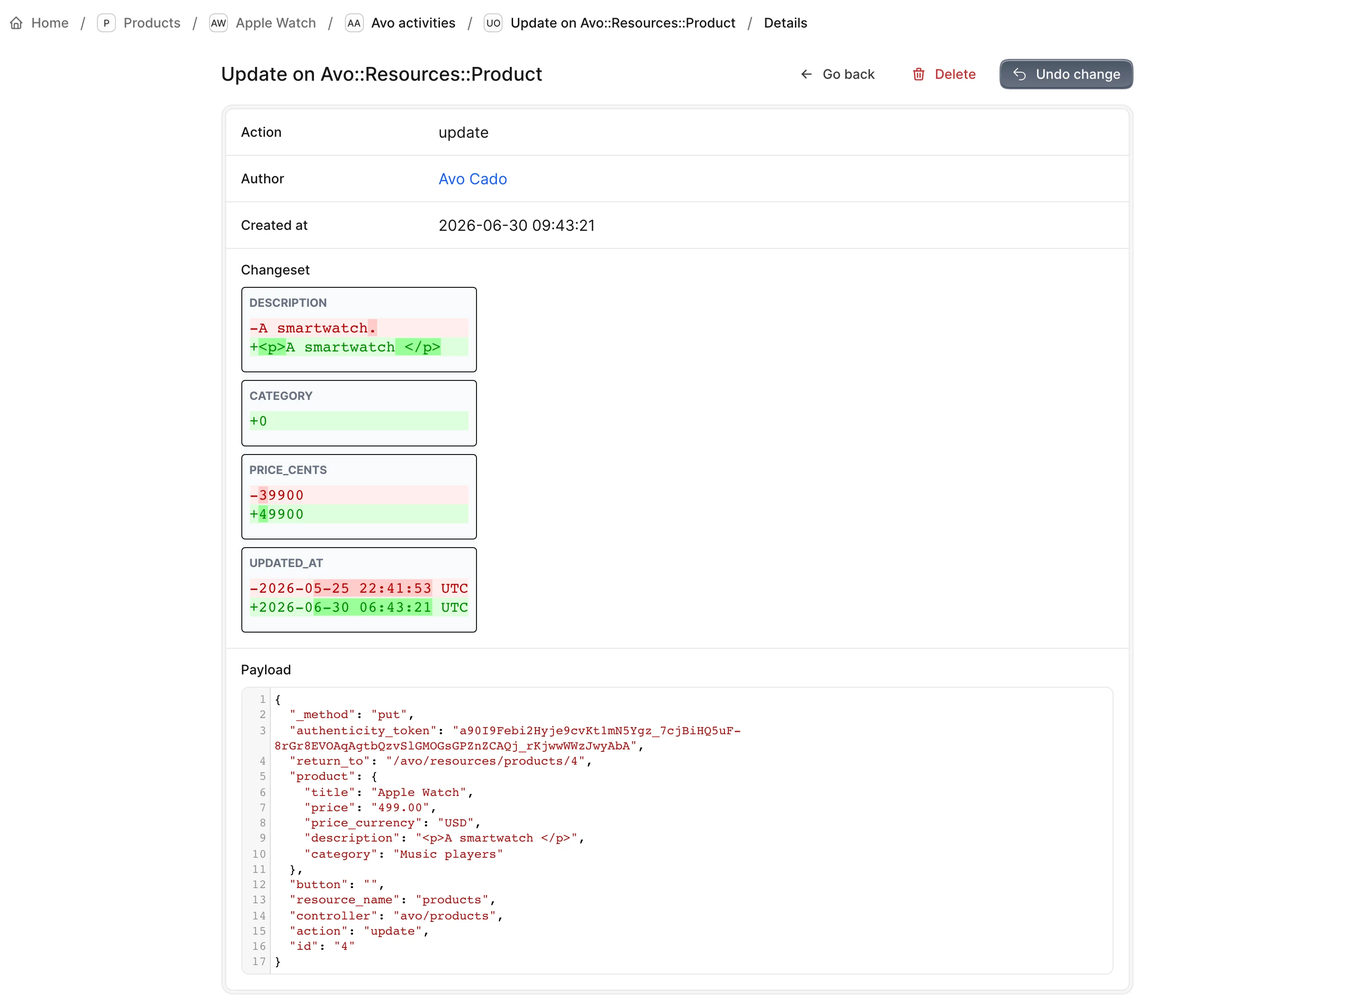
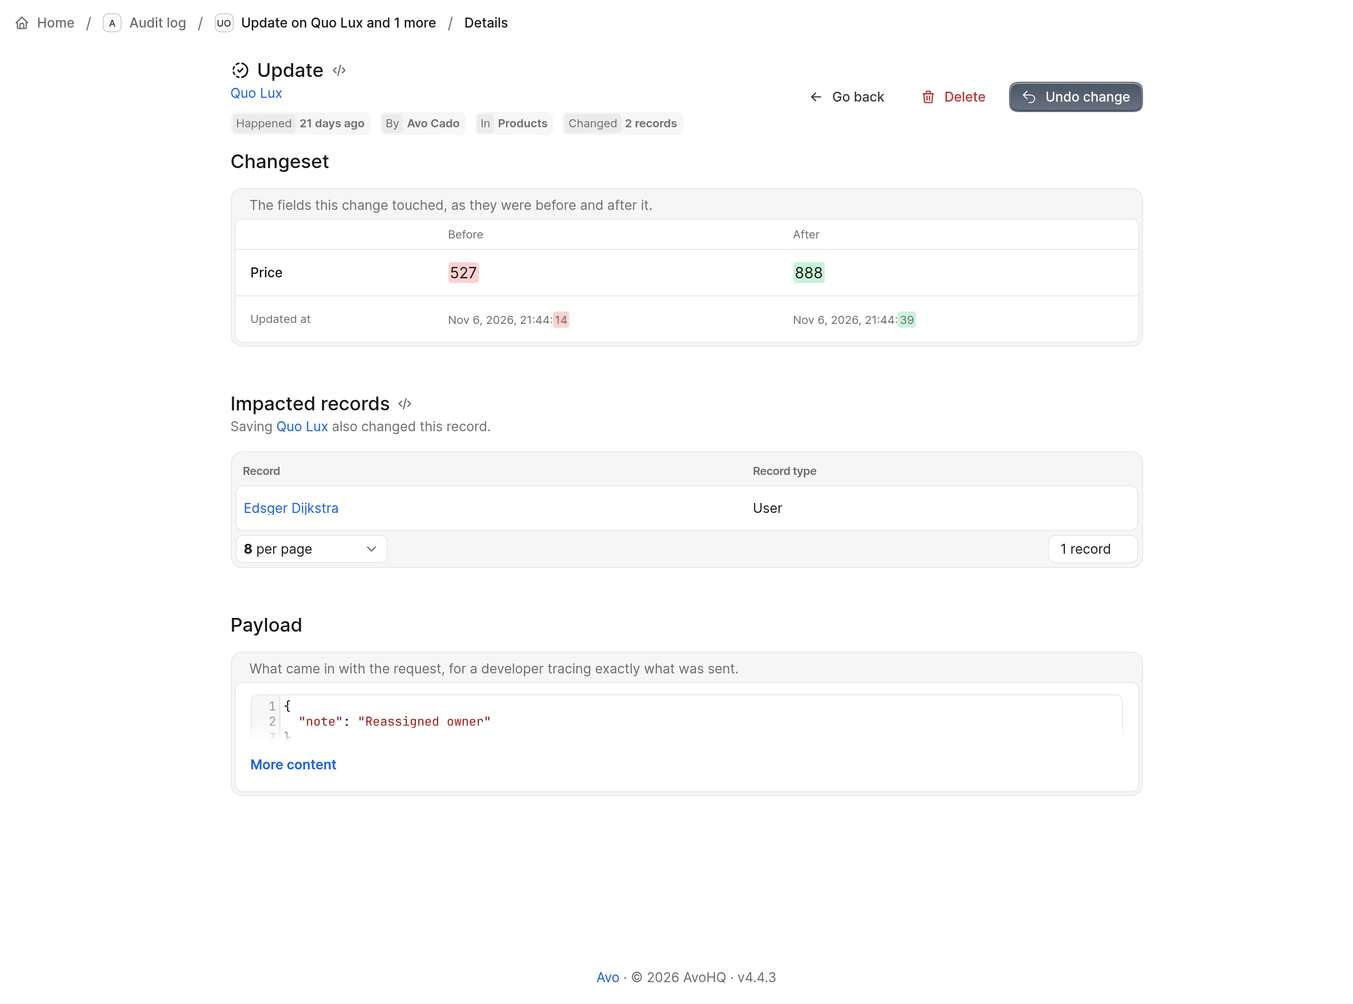
Audit logging: the Audit log list and the reworked activity page (#848)
* docs(audit-logging): what the activity page shows

* docs(audit-logging): activity titles for several records and action runs

Follows the review fixes in avo-hq/workspace#426.

* docs(audit-logging): ship in 4.3.2

4.3.1 was released without it.

* Audit logging: name the package on the version badge

* docs(audit-logging): an activity on several records shows how many

* docs(audit-logging): the activity page follows the first-record override

* docs(audit-logging): the Audit log list and the reworked activity page

The page changed shape in avo-audit_logging 4.4.1, so the old text and screenshot described fields that are gone.
Covers the Changes tab, the pinned filters, the Changeset with Before, After and Now, Impacted records, Undo taking
chained records along, the `targeted` upgrade migration, the date format and origin label options, and the
`avo-diff_field` note for apps that used `as: :diff` through the gem's old dependency.

* docs(audit-logging): the audit log ships in the nineteen languages Avo does

The gem carried English only and the page told apps to add the rest themselves. It now ships them, and the
page says what is still the app's: Rails' date words (rails-i18n) and the names of its own resources.

* docs(audit-logging): Also put back lists records by name only

* docs(audit-logging): an impacted record's own page has its changeset and Undo

* docs: the activity table is called Audit log on every page
[…]

diff --git a/docs/4.0/audit-logging.md b/docs/4.0/audit-logging.md
@@ -20,7 +20,7 @@ Activity tracking works with either `paper_trail` or `audited`, but you must hav
 - An [Avo Enterprise](https://savvycal.com/avo-hq/discovery-call-ent) license — audit logging is an Enterprise feature
 - [Custom controls](./custom-controls) — the generated activity resources use `show_controls` and `index_controls`
 - [Authorization](./authorization) — the generated activity models use the authorization helpers (`authorizable_ransackable_attributes` / `authorizable_ransackable_associations`)
-- [`paper_trail`](https://github.com/paper-trail-gem/paper_trail) and `avo-diff_field` are installed automatically if not already present
+- [`paper_trail`](https://github.com/paper-trail-gem/paper_trail) is installed automatically if not already present
 
 ## Installation
 
@@ -79,7 +79,16 @@ bin/rails generate avo:audit_logging upgrade
 bin/rails db:migrate
 ```
 
-Today that is the [activity origin](#where-an-activity-came-from) columns. `install` does the same thing — it looks at your `db/migrate` and writes only what is missing, never touching a migration you have already run — so re-running it is safe too; `upgrade` is the same code path under a name that says so.
+Today that is the [activity origin](#where-an-activity-came-from) columns and the `targeted` column, which marks the record an activity was about. `install` does the same thing — it looks at your `db/migrate` and writes only what is missing, never touching a migration you have already run — so re-running it is safe too; `upgrade` is the same code path under a name that says so.
+:::
+
+:::warning Using `as: :diff` in your own resources?
+<VersionReq package="avo-audit_logging" version="4.4.1" /> The gem draws changesets itself and no longer installs `avo-diff_field`. If your own resources have fields with `as: :diff`, add the gem to your Gemfile to keep them:
+
+```ruby
+# Gemfile
+gem "avo-diff_field"
+```
 :::
 
 ## Enable and configure audit logging
@@ -118,7 +127,7 @@ class Avo::Resources::User < Avo::BaseResource
     field :email, as: :text, link_to_record: true
     field :products, as: :has_many
     if Avo::AuditLogging.configuration.enabled? # [!code highlight]
-      field :avo_authored, as: :has_many, name: "Activity" # [!code highlight]
+      field :avo_authored, as: :has_many, name: "Audit log" # [!code highlight]
     end # [!code highlight]
   end
 end
@@ -257,6 +266,10 @@ end
 
 Each entry shows a compact relative time — hover over an entry to reveal its full date and time. Clicking an entry opens a detailed page, with the payload when the entry has one.
 
+<VersionReq package="avo-audit_logging" version="4.4.1" /> The activity's page is headed by what happened, with the History card's icon and label, such as *Update* or an action's own name like *Change Price*. Under it is the record it changed, linked, or *3 records* when it changed several, and when, such as *Happened about 3 hours ago*, with the exact time on hover.
+
+A change to one record fills the **Changeset** panel: a row for each field it touched, with **Before** and **After** side by side, and its **Undo change** button next to **Delete**. A deleted record shows the values it had, and a created one the values it was created with. IDs and timestamps sit last, in smaller rows. When a later save changed one of these fields again, a **Now** column shows the values the record has today, the changed ones highlighted. **Undo change** puts the whole record back as it was before the change, so its confirmation names every field changed since, including ones this change never touched (*Price has changed since*). Tags under the title say who made the change (*By Ada Lovelace*, linked), what it came through when it wasn't the panel (*Through MCP connection*), and which section it belongs to (*In Products*). Below, **Payload** holds what Avo received with the request, pretty-printed when it's JSON, for a developer tracing exactly what was sent. When an edit's save also changed other records, such as through a callback, the page still leads with the record you edited, a *Changed 4 records* note under the title takes you down to the others, and **Impacted records** lists them with "Saving Desk lamp also changed these 3 records." An action run on several records lists them all under **Impacted records**, each with its own changeset and Undo. A change made through the AI chat or an MCP client lists the other records its save changed the same way. A row opens the impacted record's own page, named after the record, with its changeset and the same **Undo change**. Entries recorded before the `targeted` column existed don't know which record was edited, so a change to several records shows them all under **Impacted records**. The browser tab and the breadcrumbs read *Update on Desk lamp*, or *Update on Desk lamp and 2 more*.
+
 <Image src="/assets/img/4_0/audit-logging/hover-activities.webp" dark-src="/assets/img/4_0/audit-logging/hover-activities-dark.webp" width="356" height="422" alt="The History activity timeline card showing compact relative timestamps" />
 
 ### Keep secrets out of the payload
@@ -336,9 +349,11 @@ end
 
 Once enabled, the changelog will be visible, along with an action to revert changes.
 
+<VersionReq package="avo-audit_logging" version="4.4.1" /> When the save you undo also changed other records, such as through a callback, the confirmation lists them under **Also put back**. Tick the ones to restore along with it. Each takes the same permission as undoing it on its own, and they all go back together or not at all.
+
 With [authorization](./authorization.html) enabled, reverting asks the record's policy: [`update?`](./authorization-api.html#update) on the record, found through its policy scope, or [`create?`](./authorization-api.html#create) to bring back a destroyed record. Users the policy refuses don't see the revert action. The changeset diff and the payload leave out fields the user's [field policy](./authorization.html#hide-fields-from-a-user) withholds.
 
-<Image src="/assets/img/4_0/audit-logging/activity-details.webp" dark-src="/assets/img/4_0/audit-logging/activity-details-dark.webp" width="2848" height="2114" alt="An update activity detail page showing the changeset diff and payload, with breadcrumbs and title" />
+<Image src="/assets/img/4_0/audit-logging/activity-details.webp" dark-src="/assets/img/4_0/audit-logging/activity-details-dark.webp" width="2848" height="2114" alt="An update activity page: the action and the record it changed, tags for when, who and where, the Changeset with Before and After, the Impacted records its save changed, and the Payload" />
 
 :::warning Missing `changeset` field
 If the `changeset` field in the versions table consistently appears as `nil`, ensure you add the following configuration in your `application.rb` file:
@@ -366,7 +381,7 @@ class Avo::Resources::User < Avo::BaseResource
     field :id, as: :id, link_to_record: true
     field :email, as: :text, link_to_record: true
     field :products, as: :has_many
-    field :avo_authored, as: :has_many, name: "Activity" # [!code ++]
+    field :avo_authored, as: :has_many, name: "Audit log" # [!code ++]
   end
 end
 ```
@@ -386,9 +401,40 @@ Avo.configure do |config|
 end
 ```
 
+<VersionReq package="avo-audit_logging" version="4.4.1" /> The page is called **Audit log**. It opens on the **Changes** tab, which leaves out page visits (*Index page*, *Show page* and the like), and **All** lists every entry. The tab needs [avo-scopes](./scopes.html); without it the list shows everything. Activity tables on other pages, such as [a user's own activity](#show-all-activity-by-an-author), open on **All**. Its columns read when, what and who from the left: **Created at**, **Action** and **Author**. The **Action** column shows the same label and icon as the History card, such as *Update*, or the action's own name for an action run. The **Section** column names the resource or action as your menu does, such as *Products* or *Change Price*. Long names are cut to one line, with the whole name on hover, and an entry on several records lists them when you hover the icon next to *3 records*. A row that changed one record has a preview icon that shows the change. A page visit, or a change to several records, has none: open the activity to see each change.
+
+With [Dynamic Filters](./dynamic-filters.html) installed, the bar keeps **Created at**, **Action**, **Author** and **Origin** in place, in the order of the columns. **Author** lists everyone with an entry, deleted users included, and **Origin** offers one choice per kind: *Background job* covers every job, and *UI* covers changes made in the panel. **Section** and **Record** are under *Add filter*. On an author's own table, such as the one on a user's page, there is no **Author** filter: every row there is theirs. With the [new filter dropdown](./dynamic-filters.html#try-the-new-filter-dropdown) and `inline_filters` on, **Created at** sits in the bar with *Today*, *7 days*, *30 days* and *This month*.
+
+To call the page something else, set its name in your locale file. `one` names a single entry and `other` names the page. The table on a connection's, a token's or a chat's page takes the same name.
+
+<VersionReq package="avo-audit_logging" version="4.4.1" /> The audit log reads in the nineteen languages Avo itself ships: its columns, action names, the activity's page, the History card and Undo. The words are under `avo.audit_logging` in the gem's `config/locales`, one file per language, and your own locale file wins over them. Any other language reads them in English until you add them.
+
+Dates and distances such as *4 days ago* use Rails' own words for the language. Rails ships those in English only, so add the [`rails-i18n`](https://github.com/svenfuchs/rails-i18n) gem to read them in your language too. The names of your own resources, actions and model fields are yours to translate.
+
+```yaml
+# config/locales/en.yml
+en:
+  avo:
+    resource_translations:
+      avo_activity:
+        one: "Activity"
+        other: "Activity log"
+```
+
+### Change the date format
+
+<VersionReq package="avo-audit_logging" version="4.4.1" /> The list shows the date like *September 10, 2024, 11:24:17*. To change it, set `created_at_format`, which takes the same [Luxon tokens](https://moment.github.io/luxon/#/formatting?id=table-of-tokens) as the `format` option of the [`date_time` field](./fields/date_time.html).
+
+```ruby
+# config/initializers/avo.rb
+Avo.configure do |config|
+  config.audit_logging.activity_resource = {created_at_format: "yyyy-LL-dd TT"} # [!code ++]
+end
+```
+
 ## Where an activity came from
 
-Most activities come from somebody clicking in the panel, and those carry no origin — a marker on every row would say nothing. Anything else names itself, so you can tell a change your team made from a change something else made on their behalf.
+Most activities come from somebody clicking in the panel, and those carry no origin — a marker on every row would say nothing — so the **Origin** field reads *UI* for them, and the record's timeline says nothing. Anything else names itself, so you can tell a change your team made from a change something else made on their behalf.
 
 Three of Avo's own add-ons name themselves, each after the record the entry points back to:
 
@@ -407,7 +453,7 @@ Two columns hold it:
 | `origin`        | A short name for what acted — `"mcp_connection"`, `"api_token"`, `"ai_chat"`, or a name of your own. `nil` for the panel. |
 | `origin_record` | Optional, polymorphic: the thing that acted. Linked from the activity's page where it still exists. |
 
-Filter the activity index by **Origin** to see everything one kind of actor did, or scope a query directly:
+Filter the activity index by **Origin** to see everything one kind of actor did, *UI* included, or scope a query directly:
 
 ```ruby
 Avo::AuditLogging::Activity.from_origin("mcp_connection")   # everything MCP clients did
@@ -445,6 +491,36 @@ en:
 Activities recorded before you upgraded have no origin, and neither do activities recorded by an app that hasn't run the new migration yet. Both keep working — they just read as the panel's own.
 :::
 
+### Rename the origin labels
+
+<VersionReq package="avo-audit_logging" version="4.4.1" /> To change what an origin reads as, set `config.audit_logging.origin_labels`. It takes any origin in the table below, or a name of your own, and every label you leave out stays as it is.
+
+```ruby
+# config/initializers/avo.rb
+Avo.configure do |config|
+  config.audit_logging.origin_labels = { # [!code ++]
+    ui: "Admin panel", # [!code ++]
+    job: "Scheduled task", # [!code ++]
+    nightly_importer: "Nightly import" # [!code ++]
+  } # [!code ++]
+end
+```
+
+| Key              | Default label     | What acted                                         |
+| ---------------- | ----------------- | -------------------------------------------------- |
+| `ui`             | UI                | A person in the panel                              |
+| `mcp_connection` | MCP connection    | An AI client through the MCP server                |
+| `api_token`      | API token         | A request through the REST API with a token        |
+| `api`            | API               | A request through the REST API without a token     |
+| `ai_chat`        | AI chat           | Avo AI                                             |
+| `job`            | Background job    | A job, for a change made outside Avo               |
+| `request`        | App               | Your app's own pages, for a change made outside Avo |
+| `console`        | Developer console | The Rails console, for a change made outside Avo   |
+| `rake`           | Script            | A rake task, for a change made outside Avo         |
+| `model`          | System            | Anything else, for a change made outside Avo       |
+
+These labels win over your locale file and are the same in every language. If your app uses several languages, set them under `avo.audit_logging.origins` in each locale file instead.
+
 ### Record activity from your own code
 
 <VersionReq package="avo-audit_logging" version="4.3.2" />
@@ -468,6 +544,8 @@ end
 ```
 
 Avo finds the record's resource and links the activity to the record, so it shows up on the record's timeline like a change made in the panel. `payload` can be any hash; Avo stores it as JSON, [with secrets masked](#keep-secrets-out-of-the-payload).
+
+Without an `origin:`, the entry reads *UI* in the **Origin** field, as if a person made the change in the panel. Pass one to say what acted, such as `origin: "price_updater"`.
 
 Like the panel, it only records for resources that opted in with [`self.audit_logging`](#enable-specific-resources-and-actions), and it asks your `activity` block and `actions` the same way. It returns the activity, or `nil` when audit logging is switched off or the opt-in says no. It raises `ArgumentError` when the record's model has no Avo resource, or when the record hasn't been saved yet. The activity and its link to the record are saved together, or not at all.
 
@@ -574,6 +652,8 @@ en:
 
 On a resource that sets `outside_avo`, the panel's create, the AI chat, and MCP clients claim the saves they record. Each entry they record links the version of its own change (a create's, the destroy, or the first update), so it has the change log. Every other version written during the claim is logged by `outside_avo` on its own, as it would be outside one: another record a callback changes, an earlier save of the same record, or the records an action changes when the action doesn't opt in. That holds even when the writer raises after saving.
 
+<VersionReq package="avo-audit_logging" version="4.4.1" /> A version of a model that doesn't set `outside_avo`, such as a stock movement an action creates, joins the entry as one of its **Impacted records**, as it does in the panel. That takes a claim that recorded one entry. With several, Avo can't tell whose the change is, and leaves it out.
+
 When your own code records a change with `Avo::AuditLogging.record` on a resource that sets `outside_avo`, claim the save the same way, or the change is logged twice:
 
 ```ruby
@@ -674,7 +754,7 @@ Rails.configuration.to_prepare do
 end
 ```
 
-`record_type` is in the override so it stays the type of the record `record_id` names. Without it, an activity on two models pairs one id with `:multiple`. `to_prepare` applies the override again after each code reload in development. `records`, `model_class` and `record_policy_class` don't change.
+`record_type` is in the override so it stays the type of the record `record_id` names. Without it, an activity on two models pairs one id with `:multiple`. `to_prepare` applies the override again after each code reload in development. `records`, `model_class` and `record_policy_class` don't change. The activity page follows the override: its **Record** field links to that record instead of showing how many.
 
 ## Control who sees which activities
 

diff --git a/docs/4.0/mcp.md b/docs/4.0/mcp.md
@@ -508,7 +508,7 @@ Each card below the fields has an optional method of its own, and the four `view
 | Method               | Card                                          | What it discloses                                                                                                     |
 | -------------------- | --------------------------------------------- | --------------------------------------------------------------------------------------------------------------------- |
 | `view_log?`          | **Log**, *and* the endpoint the page polls    | Data about your own records — tool arguments, record ids, search terms.                                                 |
-| `view_audit_trail?`  | **Audit trail** (with Audit Logging installed) | What the client changed, and the titles of the records it changed. Asked again by the table's own endpoint, so one method covers both. |
+| `view_audit_trail?`  | **Audit log** (with Audit Logging installed) | What the client changed, and the titles of the records it changed. Asked again by the table's own endpoint, so one method covers both. |
 | `view_entitlements?` | **Entitlements**                              | The connection **owner's** reach. On another admin's connection it names resources the reader's own policies may hide. |
 | `view_tools?`        | **Tools**                                     | Tool names, derived from the registry and the grant. Nothing beyond them.                                               |
 | `edit_entitlements?` | **Entitlements** — the controls, *and* the request Apply sends | Changing the connection **owner's** reach. Optional, but a host with a policy must define it to enable editing: denied or undefined, the card renders read-only and says so. Editing implies `view_entitlements?` — nobody may change what they may not see. |
@@ -602,7 +602,7 @@ That shows up in three places:
 
 - **The record's own timeline** continues the author's name with it: *Ada Lovelace through MCP connection*.
 - **The activity's page** has an **Origin** field — *MCP connection — Claude* — the whole of which links to the connection.
-- **The connection's page** has an **Audit trail** table — Audit Logging's own activity table, the same one its docs put on a user's resource — listing what this client changed, each row linking to its entry.
+- **The connection's page** has an **Audit log** table — Audit Logging's own activity table, the same one its docs put on a user's resource — listing what this client changed, each row linking to its entry.
 
 The table is there only when Audit Logging is installed and switched on. Upgrading from a version before this? Run `bin/rails generate avo:audit_logging upgrade`, then `bin/rails db:migrate` — until then changes are still recorded, just unmarked, and the table is not offered.
 

diff --git a/docs/4.0/rest-api.md b/docs/4.0/rest-api.md
@@ -940,7 +940,7 @@ Each one gates both whether the control renders and whether it can be run, so a 
 | `act_on?` | The Actions menu as a whole |
 | `revoke?` | The **Revoke** action. Offered only on an *active* token whatever this returns — an expired or revoked one has nothing left to withdraw |
 | `edit_entitlements?` | The [Entitlements](#entitle-a-token) grid. Denying it renders the grid **read-only** rather than hiding it, and the form's write path strips what it refuses, so what is shown and what is accepted can't drift apart |
-| `view_audit_trail?` | The [Audit trail](#see-what-a-token-changed) table on a token's page, *and* the request that fills it. Avo's own `view_<field>?` for a `has_many`: under `explicit_authorization` (the default) the table is hidden until the policy answers it |
+| `view_audit_trail?` | The [Audit log](#see-what-a-token-changed) table on a token's page, *and* the request that fills it. Avo's own `view_<field>?` for a `has_many`: under `explicit_authorization` (the default) the table is hidden until the policy answers it |
 
 The last four aren't Avo's standard CRUD set, but they're asked exactly the same way — through the resource's authorization service, so a client other than Pundit answers them in its own idiom, and names you remapped through [`config.authorization_methods`](./authorization-api.html#authorization_methods) are honored.
 
@@ -1056,7 +1056,7 @@ That shows up in three places:
 
 - **The record's own timeline** continues the author's name with it: *Ada Lovelace through API token*.
 - **The activity's page** has an **Origin** field — *API token — CI deploy key* — the whole of which links to the token.
-- **The token's page** has an **Audit trail** table: Audit Logging's own activity table, listing what this token changed.
+- **The token's page** has an **Audit log** table: Audit Logging's own activity table, listing what this token changed.
 
 The table is gated by `view_audit_trail?` on your token policy — Avo's own convention for a `has_many`, asked once for the table and again by the endpoint that fills it. Under `explicit_authorization` (Avo's default) the table stays hidden until the policy defines it, exactly as any other association would:
 

diff --git a/docs/4.0/mcp-api.md b/docs/4.0/mcp-api.md
@@ -341,7 +341,7 @@ A tool call's arguments are stored after the app's `filter_parameters` and cappe
 | `show?`          | A connection's page — and every card on it that the three methods below do not claim                      |
 | `act_on?`        | The Revoke action. Asked once with the class, then per selected connection                                |
 | `view_log?`      | Optional. The Log card and its poll endpoint, in place of `show?`                                         |
-| `view_audit_trail?` | Optional. The Audit trail table **and** the endpoint that fills it, in place of `show?`             |
+| `view_audit_trail?` | Optional. The Audit log table **and** the endpoint that fills it, in place of `show?`             |
 | `view_entitlements?` | Optional. The Entitlements card, in place of `show?`                                                  |
 | `view_tools?`    | Optional. The Tools card, in place of `show?`                                                             |
 | `edit_entitlements?` | Optional. Changing the grant from the Entitlements card, and the request Apply sends. Denied — or undefined in a policy — the card renders read-only; it does not fall back to `show?`. Editing implies `view_entitlements?` |

diff --git a/docs/4.0/upgrade.md b/docs/4.0/upgrade.md
@@ -1239,7 +1239,7 @@ bin/rails db:migrate
 
 `upgrade` reads your `db/migrate` and writes only what is missing — it never touches a migration you have already run. Running `install` again does the same thing.
 
-Until you migrate, nothing breaks: activities keep being recorded, just without an origin, and the **Audit trail** table on a connection's, token's or chat's page is not offered rather than shown empty.
+Until you migrate, nothing breaks: activities keep being recorded, just without an origin, and the **Audit log** table on a connection's, token's or chat's page is not offered rather than shown empty.
 
 If you have written `Avo::AuditLogging::Activity` yourself — an importer, a job — you can mark those too; see [Mark your own origins](./audit-logging.html#mark-your-own-origins).
 
